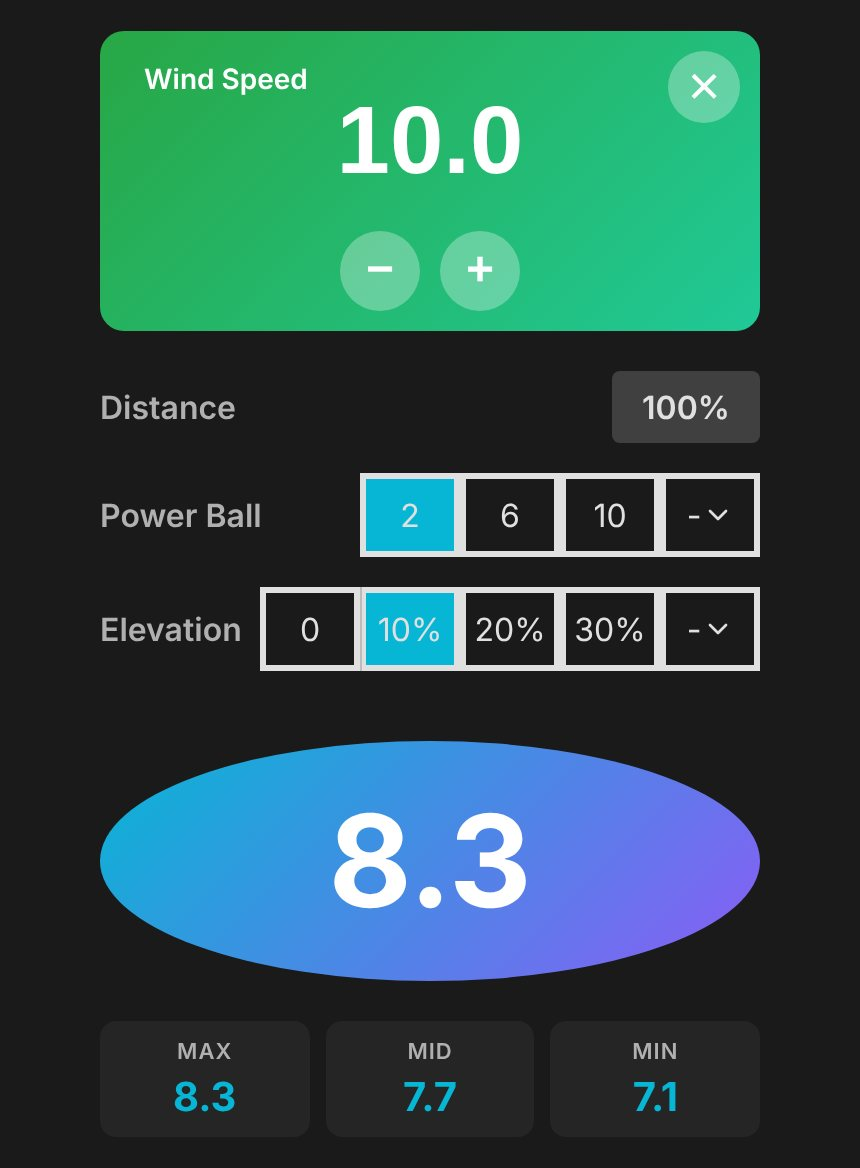
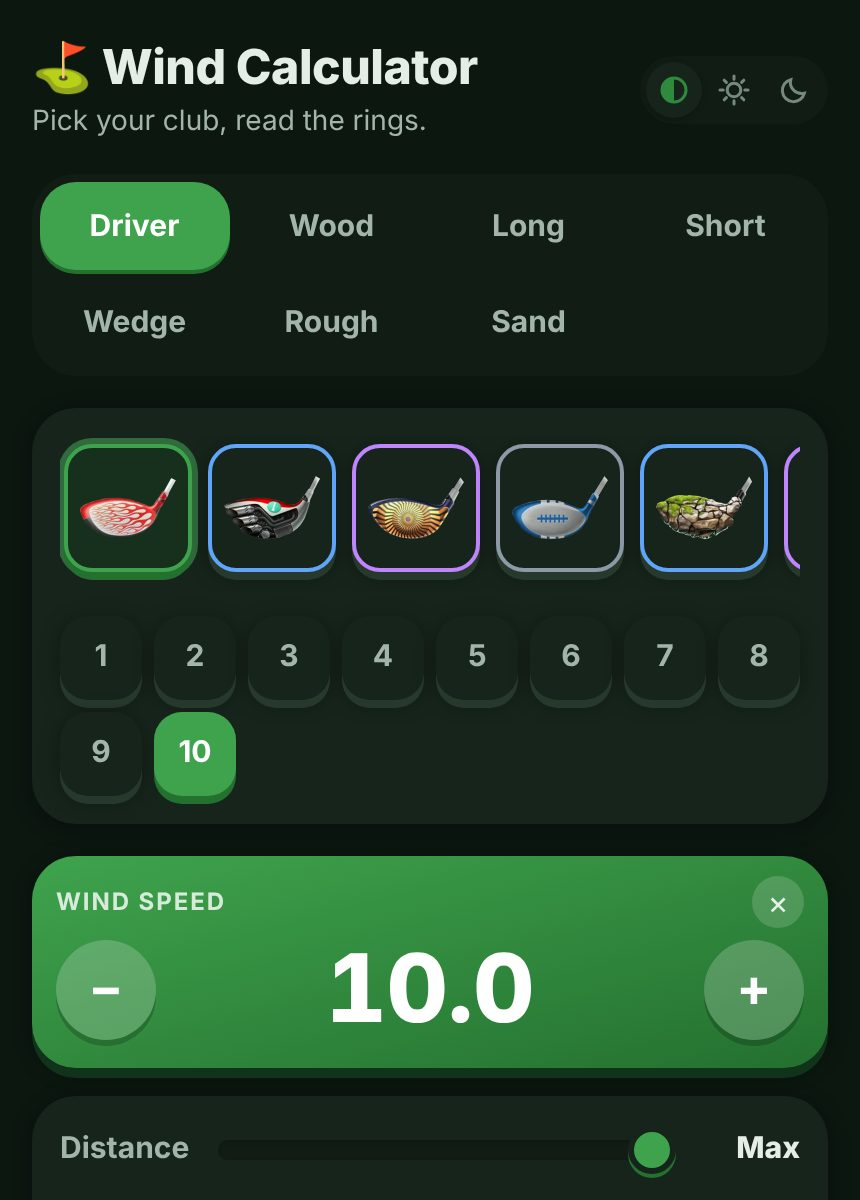
Update gcwind's card for its redesign
- New light and dark screenshots from gcwind.webthinking.io, taken from
  the top of the app at a phone width: the header and theme switch, the
  club tabs, the club and level pickers, and the wind speed card. The
  alt text says what they show.
- Open goes to gcwind.webthinking.io, where the app now runs on its own.
  The GitHub Pages copy behind /gcwind/ is its staging build.

diff --git a/index.html b/index.html
@@ -81,12 +81,12 @@
           <h2 id="gcwind-title">gcwind</h2>
           <p>How many rings to adjust for the wind in <a href="https://www.ea.com/games/golf-clash/golf-clash">Golf Clash</a>.</p>
           <p class="actions">
-            <a class="go" href="/gcwind/">Open <span aria-hidden="true">→</span></a>
+            <a class="go" href="https://gcwind.webthinking.io/">Open <span aria-hidden="true">→</span></a>
           </p>
         </div>
         <div class="shot shot-phone">
-          <img class="img-light" src="/img/gcwind-light.jpg" width="860" height="1168" loading="lazy" decoding="async" alt="gcwind on a phone: wind speed 10.0, power ball and elevation selected, and a result of 8.3 rings.">
-          <img class="img-dark" src="/img/gcwind-dark.jpg" width="860" height="1168" loading="lazy" decoding="async" alt="gcwind on a phone: wind speed 10.0, power ball and elevation selected, and a result of 8.3 rings.">
+          <img class="img-light" src="/img/gcwind-light.jpg" width="860" height="1200" loading="lazy" decoding="async" alt="gcwind on a phone: the Driver tab, The Rocket at level 10, and a wind speed of 10.0.">
+          <img class="img-dark" src="/img/gcwind-dark.jpg" width="860" height="1200" loading="lazy" decoding="async" alt="gcwind on a phone: the Driver tab, The Rocket at level 10, and a wind speed of 10.0.">
         </div>
       </article>
     </main>
